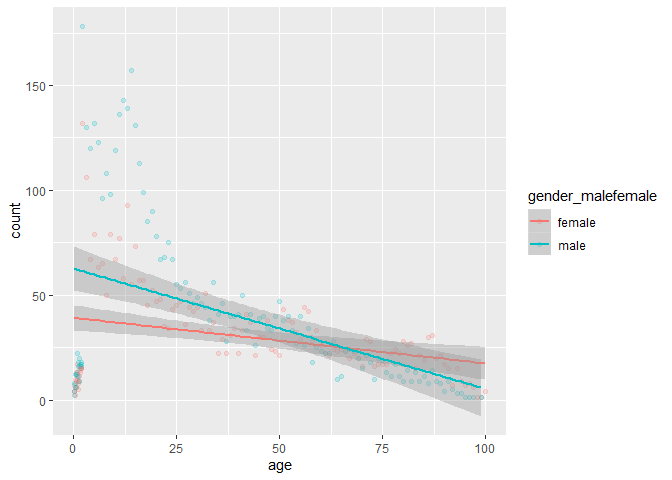
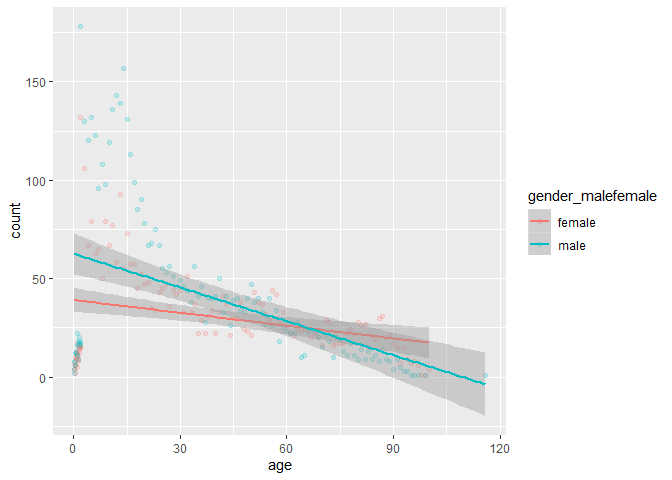
update hw6 html

diff --git a/hw06_WenjunSUN.html b/hw06_WenjunSUN.html
@@ -591,15 +591,20 @@ df &lt;- bind_rows(df_part1,df_part2)
 #boxplot 
 ggplot(df, aes(gender_malefemale, age)) + geom_boxplot()</code></pre>
[1 lines of base64/hex data omitted]
-<pre class="r"><code>#remove some absurd age data point
-df &lt;- df[!df$age &gt; 110,]
+<pre class="r"><code>#remove some absurd age data point, Google told me the oldest men in the world is 116 years old. 
+df &lt;- df[!df$age &gt; 116,]
 
 df %&gt;% group_by(age, gender_malefemale) %&gt;%
                summarise(count = n()) %&gt;%
                ggplot(aes(age, count, group = gender_malefemale, colour = gender_malefemale)) + 
                geom_point(alpha = 0.2) + 
                geom_smooth(method = lm)</code></pre>
[2 lines of base64/hex data omitted]
+<pre class="r"><code>df %&gt;% group_by(age, gender_malefemale) %&gt;%
+               summarise(count = n()) %&gt;%
+               ggplot(aes(age, count, group = gender_malefemale, colour = gender_malefemale)) + 
+               geom_line() </code></pre>
[1 lines of base64/hex data omitted]
 </div>
 </div>
 </div>
